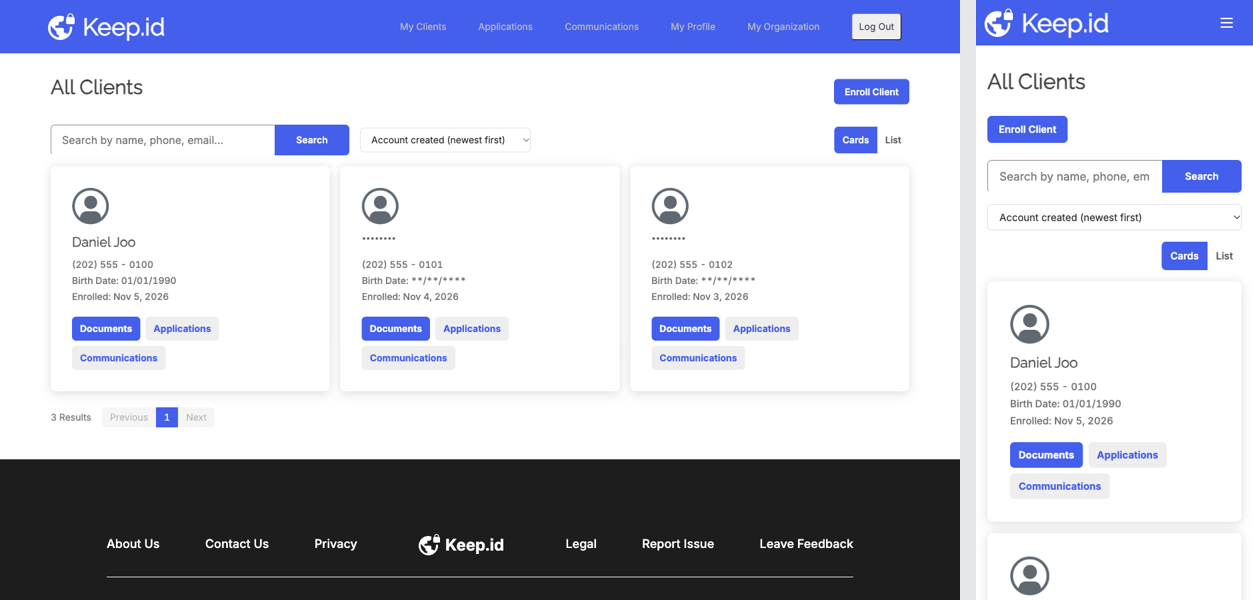
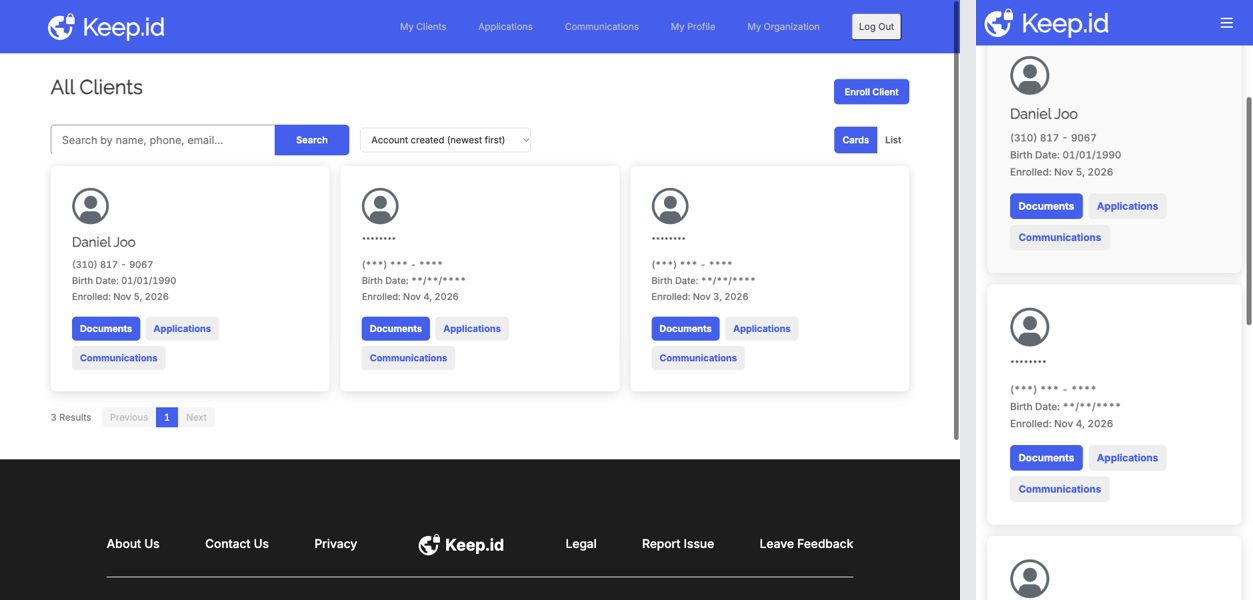
Mask demo phone numbers except the presenter number

diff --git a/src/components/LandingPages/WorkerLanding.tsx b/src/components/LandingPages/WorkerLanding.tsx
@@ -9,9 +9,8 @@ import GenericProfilePicture from '../../static/images/generalprofilepic.png';
 import VisualizationSVG from '../../static/images/visualization.svg';
 import Role from '../../static/Role';
 import { getClientSearchCandidateQueries, matchesClientSearchQuery } from '../../utils/clientSearch';
-import { demoClientBirthDate, demoClientName } from '../../utils/demoPrivacy';
+import { demoClientBirthDate, demoClientName, demoClientPhone } from '../../utils/demoPrivacy';
 import { canUseApplications, canUseClientNotifications, canUseCommunications } from '../../utils/featureAccess';
-import { formatPhoneForDisplay } from '../../utils/phone';
 import IdPickupNotificationForm from '../Notifications/IdPickupNotificationForm';
 
 interface Props {
@@ -466,7 +465,7 @@ const WorkerLanding: React.FC<Props> = ({
             </div>
             <div className="tw-mb-1">
               <p className="tw-mb-1 tw-text-sm tw-font-medium tw-text-gray-600">
-                {formatPhoneForDisplay(client.phone)}
+                {demoClientPhone(client.phone)}
               </p>
             </div>
             <div className="tw-mb-1">
@@ -536,7 +535,7 @@ const WorkerLanding: React.FC<Props> = ({
                 {demoClientBirthDate(clientDisplayName(client), formatBirthDateForDisplay(client.birthDate))}
               </td>
               <td className="tw-whitespace-nowrap tw-px-4 tw-py-3 tw-text-left tw-text-sm tw-font-medium tw-text-gray-700">
-                {formatPhoneForDisplay(client.phone)}
+                {demoClientPhone(client.phone)}
               </td>
               <td className="tw-whitespace-nowrap tw-px-4 tw-py-3 tw-text-left tw-text-sm tw-font-medium tw-text-gray-700">
                 {formatCreationDateForDisplay(client.creationDate)}

diff --git a/src/utils/demoPrivacy.ts b/src/utils/demoPrivacy.ts
@@ -1,3 +1,5 @@
+import { canonicalizePhone, formatPhoneForDisplay } from './phone';
+
 // Temporary presentation masking for the demo. Revert after the demo.
 // Keep this at render sites: real names/IDs must still reach navigation and APIs.
 export function demoClientName(name?: string | null): string {
@@ -8,4 +10,10 @@ export function demoClientName(name?: string | null): string {
 
 export function demoClientBirthDate(name: string, birthDate: string): string {
   return demoClientName(name) === '********' ? '**/**/****' : birthDate;
+}
+
+export function demoClientPhone(phone?: string | null): string {
+  return canonicalizePhone(phone) === '3108179067'
+    ? formatPhoneForDisplay(phone)
+    : '(***) *** - ****';
 }
